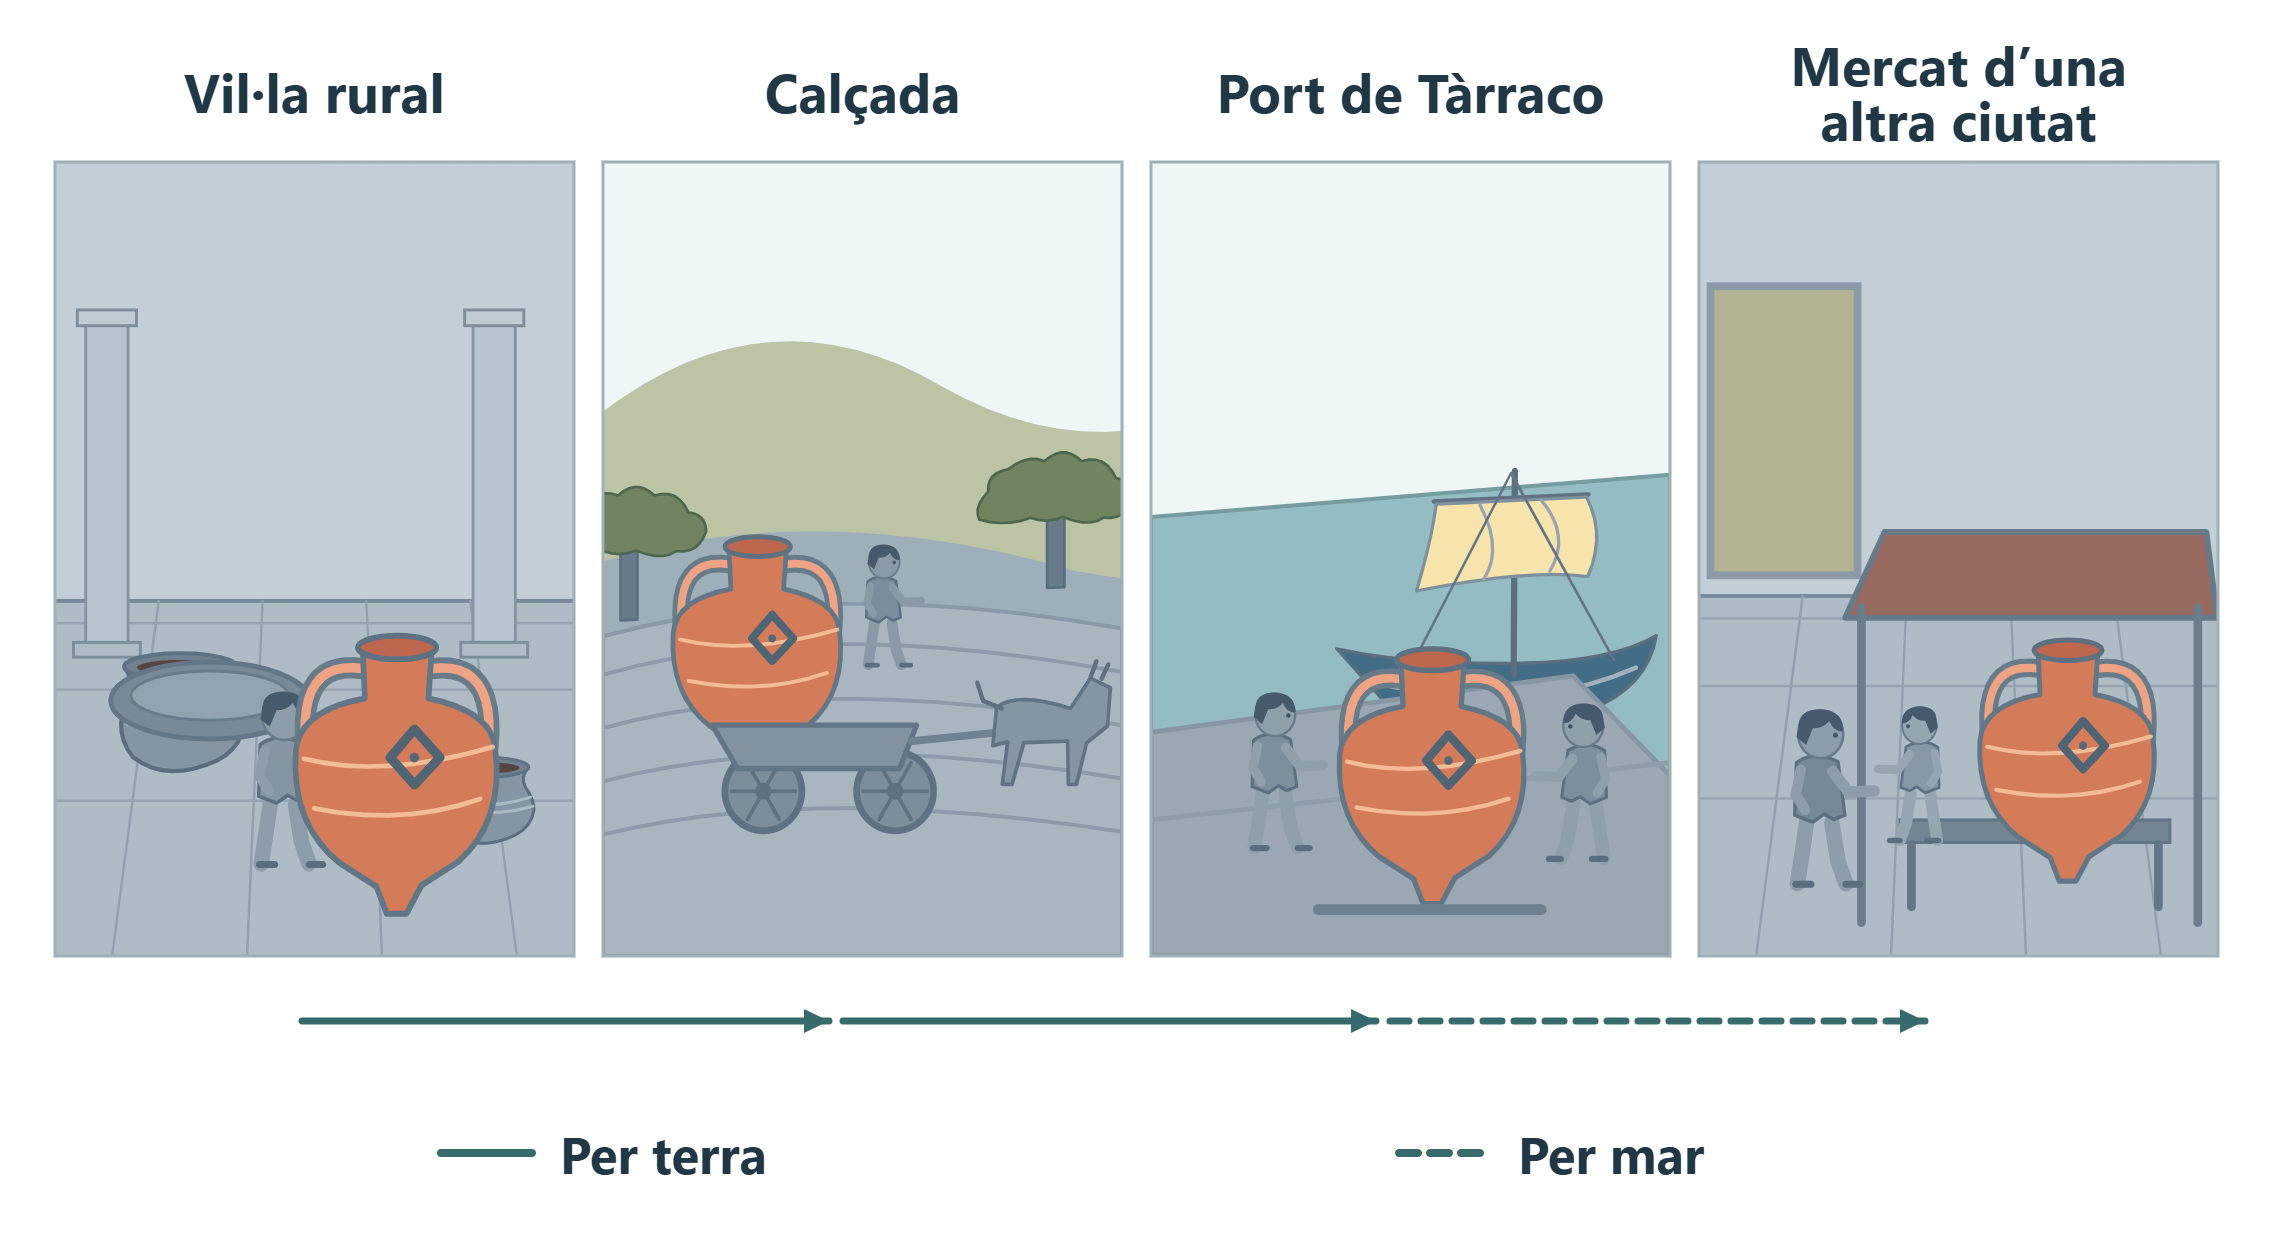
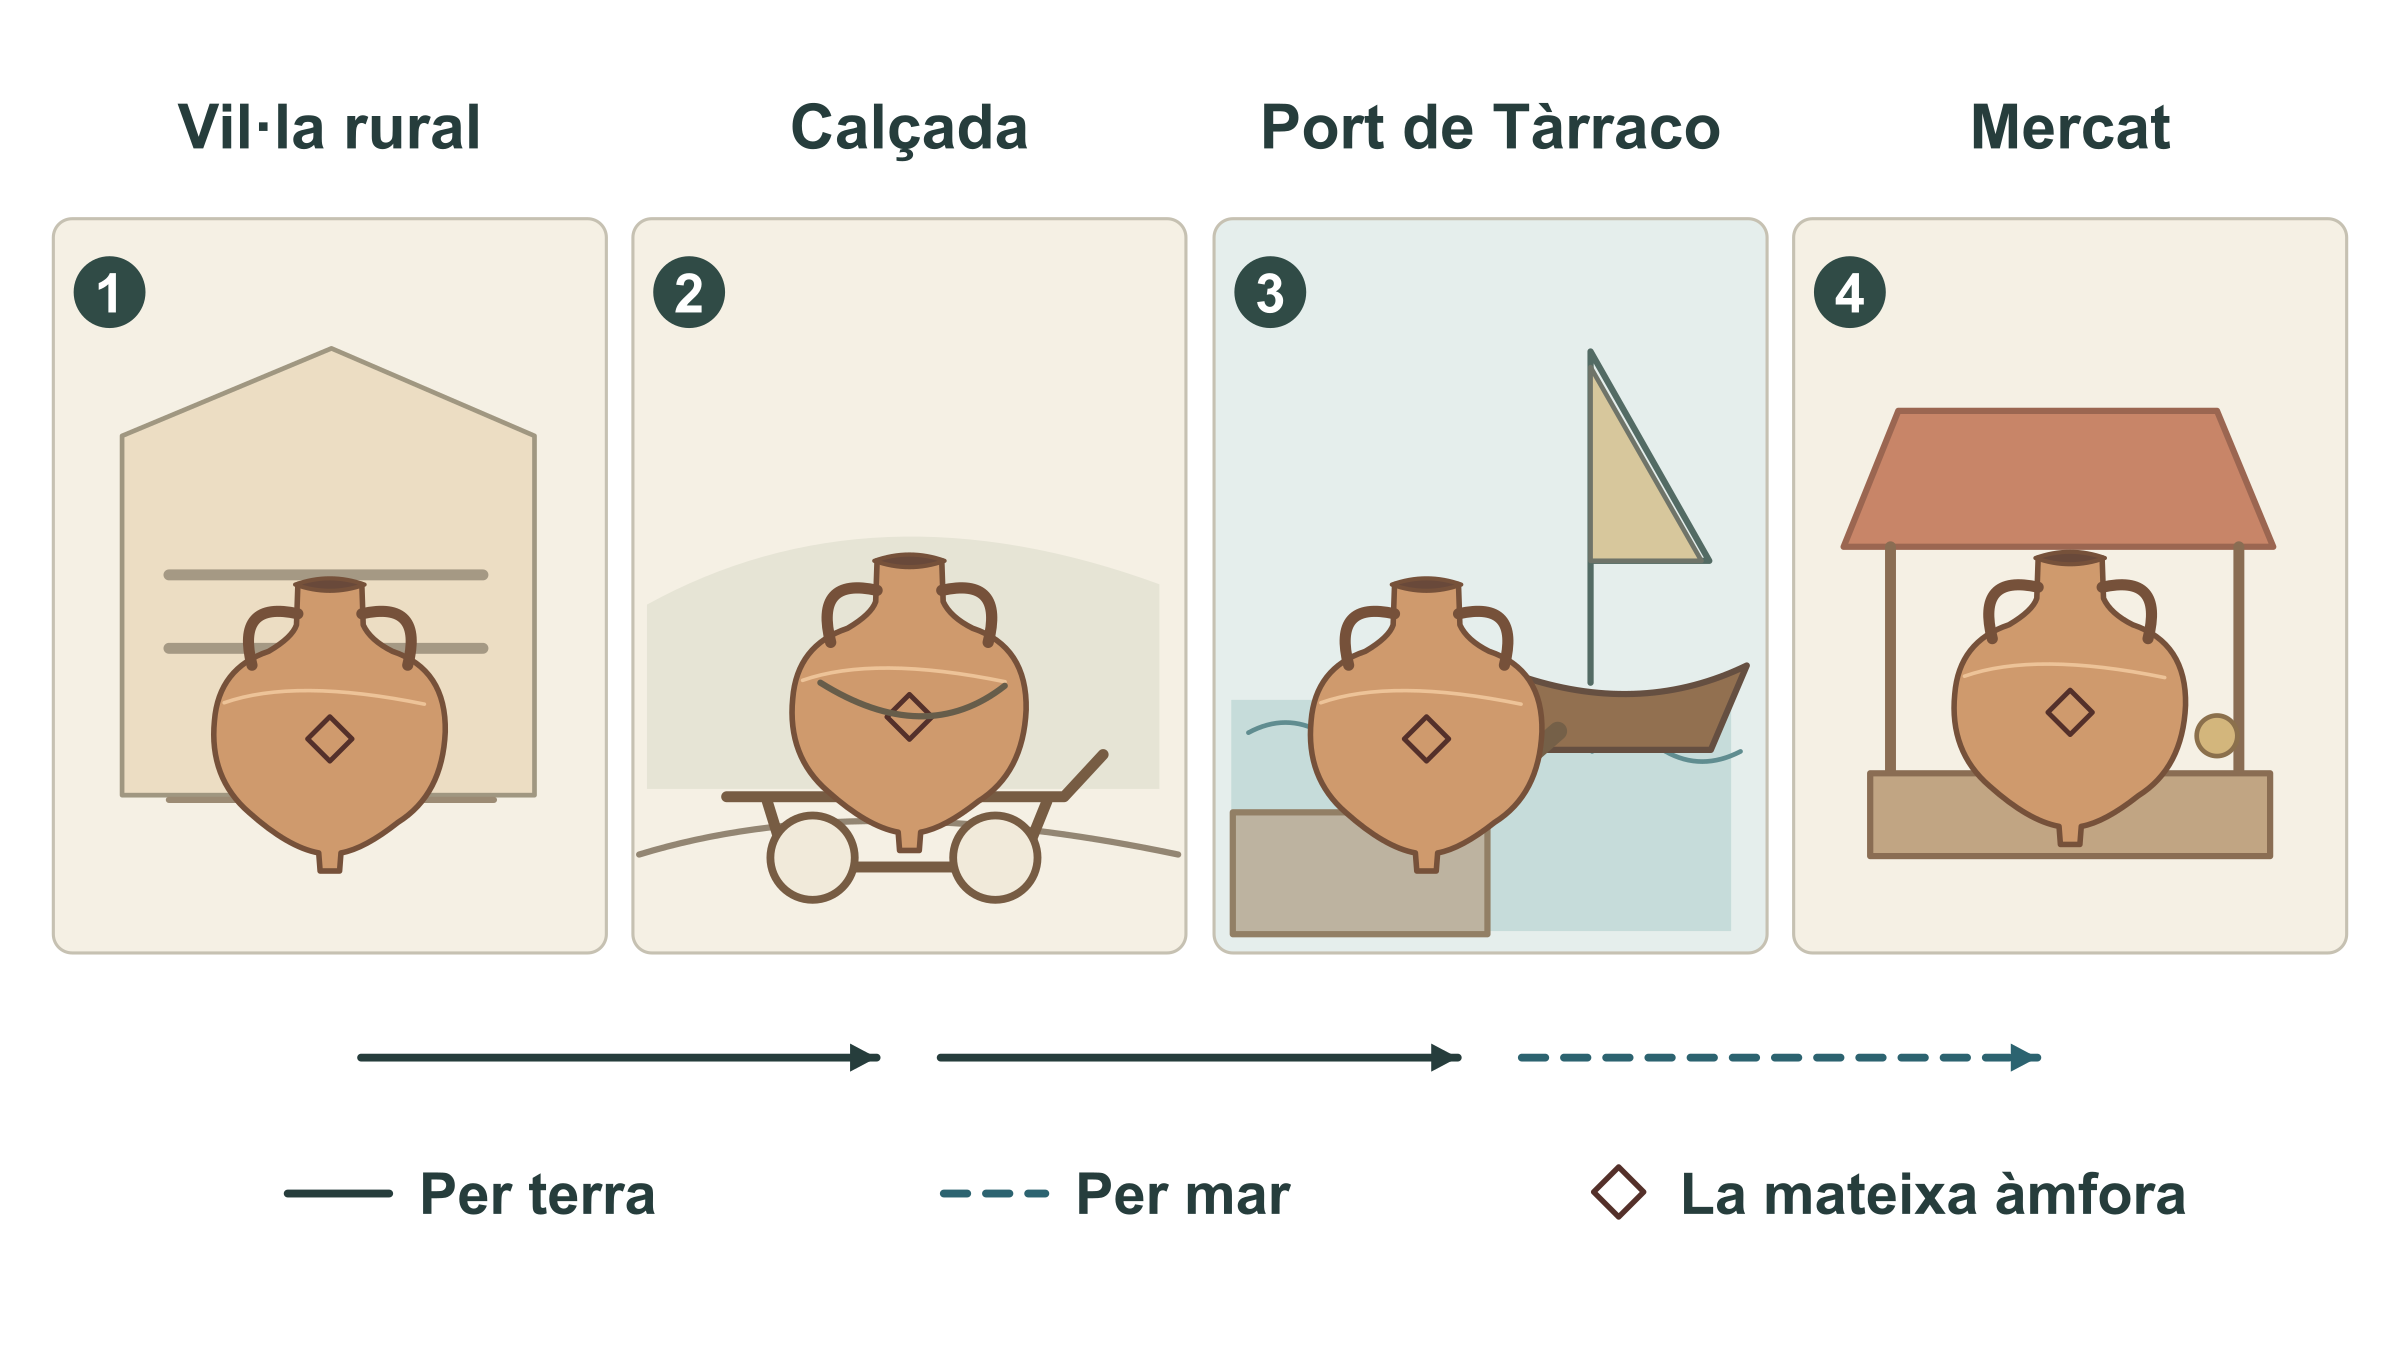
Renova la seqüència de l’àmfora de l’M031 (v0.1.95)

diff --git a/docs/index.html b/docs/index.html
@@ -7,17 +7,17 @@
   <title>Món a mà · Apunts i materials per explorar el medi</title>
   <link rel="icon" type="image/png" sizes="32x32" href="assets/favicon.png?v=0.1.4">
   <link rel="apple-touch-icon" href="assets/mon-a-ma.png?v=0.1.4">
-  <link rel="stylesheet" href="estils.css?v=0.1.94">
-  <script src="interficie.js?v=0.1.94" defer></script>
-  <script src="continguts/terra-i-mapes.js?v=0.1.94" defer></script>
-  <script src="continguts/variants-terra-i-mapes.js?v=0.1.94" defer></script>
-  <script src="continguts/temes-3r-cicle-2.js?v=0.1.94" defer></script>
-  <script src="imprimible.js?v=0.1.94" defer></script>
-  <script src="preferencies.js?v=0.1.94" defer></script>
-  <script src="continguts/curriculum.js?v=0.1.94" defer></script>
-  <script src="mapa-curricular.js?v=0.1.94" defer></script>
-  <script src="incidencies.js?v=0.1.94" defer></script>
-  <script src="app.js?v=0.1.94" defer></script>
+  <link rel="stylesheet" href="estils.css?v=0.1.95">
+  <script src="interficie.js?v=0.1.95" defer></script>
+  <script src="continguts/terra-i-mapes.js?v=0.1.95" defer></script>
+  <script src="continguts/variants-terra-i-mapes.js?v=0.1.95" defer></script>
+  <script src="continguts/temes-3r-cicle-2.js?v=0.1.95" defer></script>
+  <script src="imprimible.js?v=0.1.95" defer></script>
+  <script src="preferencies.js?v=0.1.95" defer></script>
+  <script src="continguts/curriculum.js?v=0.1.95" defer></script>
+  <script src="mapa-curricular.js?v=0.1.95" defer></script>
+  <script src="incidencies.js?v=0.1.95" defer></script>
+  <script src="app.js?v=0.1.95" defer></script>
 </head>
 <body>
   <a class="skip" href="#main">Ves al contingut</a>
@@ -328,7 +328,7 @@
         <button type="button" id="reset-user" title="Restableix els ajustos de totes les fitxes, les plantilles, les col·leccions i les imatges pròpies.">Restableix preferències</button>
         <span id="reset-user-status" role="status"></span>
         <a href="https://github.com/aaronFortuno/mon-a-ma/blob/main/license.md">MIT</a>
-        <button type="button" data-dialog="release" aria-haspopup="dialog" aria-label="v0.1.94 · Historial de versions">v0.1.94</button>
+        <button type="button" data-dialog="release" aria-haspopup="dialog" aria-label="v0.1.95 · Historial de versions">v0.1.95</button>
         <button type="button" data-dialog="about" aria-haspopup="dialog" aria-label="V4V · Sobre el projecte">V4V</button>
       </nav>
     </div>
@@ -339,6 +339,8 @@
       <form method="dialog"><button type="submit" class="icon-button" aria-label="Tanca" autofocus><svg viewBox="0 0 24 24" aria-hidden="true"><path d="m6 6 12 12M18 6 6 18"/></svg></button></form>
     </div>
     <div class="dialog-content">
+      <h3>v0.1.95</h3>
+      <ul><li>Renova el viatge de l’àmfora d’oli de l’M031 amb una ruta esquemàtica i quatre escenes que mostren la mateixa peça.</li></ul>
       <h3>v0.1.94</h3>
       <ul><li>Renova la casa i les feines del taller de l’M025 amb seccions i peces en Pla i reconstruccions d’activitat en Atles.</li></ul>
       <h3>v0.1.93</h3>

diff --git a/docs/continguts/terra-i-mapes.js b/docs/continguts/terra-i-mapes.js
@@ -2410,11 +2410,22 @@ window.quaderns ??= [];
       {
         id: 'oli-de-la-villa-al-mercat', section: 'xarxa', name: 'El recorregut d’una àmfora d’oli', ratio: 2280 / 1260,
         width: 100, position: 'center', wrap: false, anchor: 'lead',
-        alt: 'Quatre vinyetes segueixen una àmfora amb una marca en forma de rombe. Passa d’una vil·la a un carro, a la càrrega d’un vaixell al port de Tàrraco i al taulell d’un mercat.',
-        caption: 'Vil·la, àmfora marcada i itinerari de mostra. Segueix la mateixa marca i busca a quin lloc l’àmfora passa del carro al vaixell.',
         variants: {
-          pla: { src: 'illustracions/m031/oli-de-la-villa-al-mercat-pla.png', thumbnail: 'illustracions/m031/miniatures/oli-de-la-villa-al-mercat-pla.jpg' },
-          atles: { src: 'illustracions/m031/oli-de-la-villa-al-mercat-atles.png', thumbnail: 'illustracions/m031/miniatures/oli-de-la-villa-al-mercat-atles.jpg' },
+          pla: {
+            src: 'illustracions/m031/oli-de-la-villa-al-mercat-pla.png?v=0.1.95',
+            thumbnail: 'illustracions/m031/miniatures/oli-de-la-villa-al-mercat-pla.jpg?v=0.1.95',
+            ratio: 2400 / 1356,
+            alt: 'Ruta esquemàtica en quatre passos. La mateixa àmfora amb un rombe és a la vil·la, al carro, al moll de Tàrraco i al mercat. El traç discontinu marca el tram per mar.',
+            caption: 'Segueix el rombe. Distingeix els trams per terra i per mar i assenyala on l’àmfora passa del carro al vaixell. L’itinerari és un exemple didàctic.',
+          },
+          atles: {
+            src: 'illustracions/m031/oli-de-la-villa-al-mercat-atles.webp?v=0.1.95',
+            thumbnail: 'illustracions/m031/miniatures/oli-de-la-villa-al-mercat-atles.jpg?v=0.1.95',
+            ratio: 2400 / 1764,
+            alt: 'Quatre escenes amb una mateixa àmfora de terrissa i un rombe. Un treballador la revisa a la vil·la, la peça viatja en carro, dos portuaris la passen al vaixell a Tàrraco i es veu al mercat d’una altra ciutat.',
+            caption: 'Itinerari imaginat de l’oli. El rombe és una marca didàctica per seguir la mateixa àmfora des de la vil·la fins a un altre mercat. Què et mostra el canvi de transport?',
+            credit: 'Reconstrucció generada i retolada per a Món a mà.',
+          },
         },
       },
       {

diff --git a/CHANGELOG.md b/CHANGELOG.md
@@ -1,5 +1,9 @@
 # Historial de versions
 
+## 0.1.95 · 28 de novembre de 2026
+
+- Renova el viatge de l’àmfora d’oli de l’M031 amb una ruta esquemàtica i quatre escenes que mostren la mateixa peça.
+
 ## 0.1.94 · 28 de novembre de 2026
 
 - Renova la casa i les feines del taller de l’M025 amb seccions i peces en Pla i reconstruccions d’activitat en Atles.
